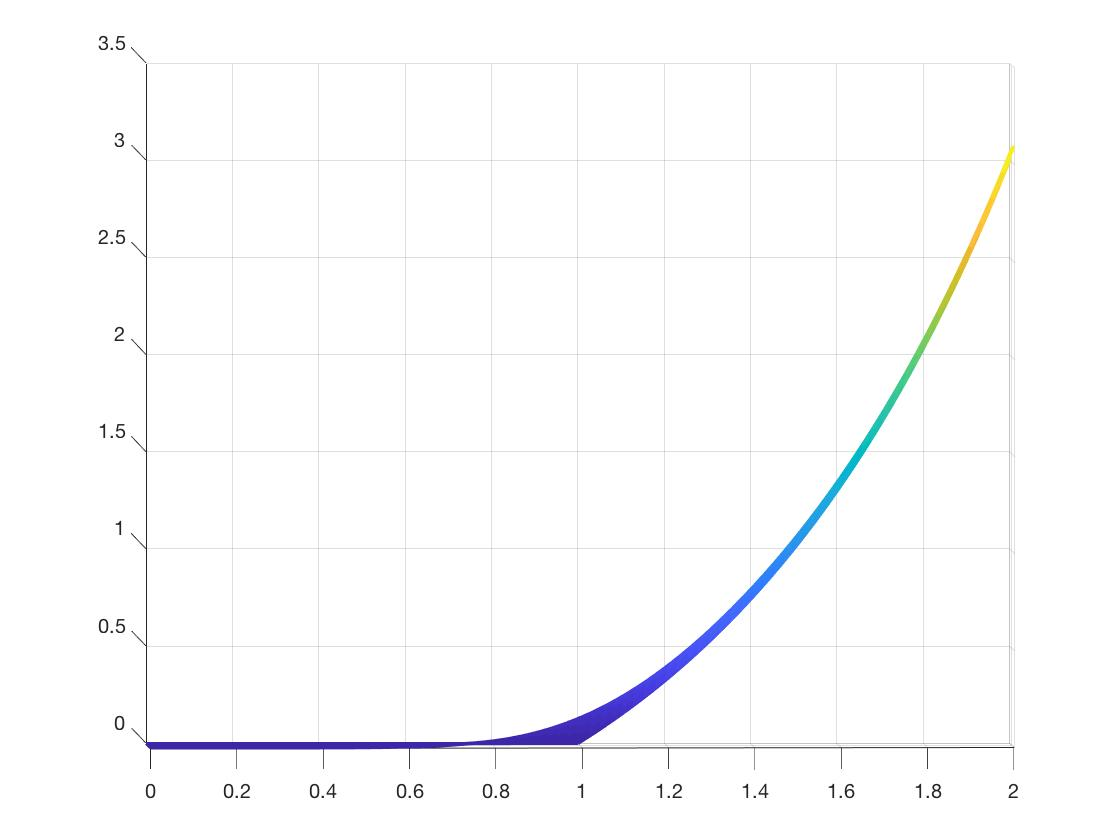
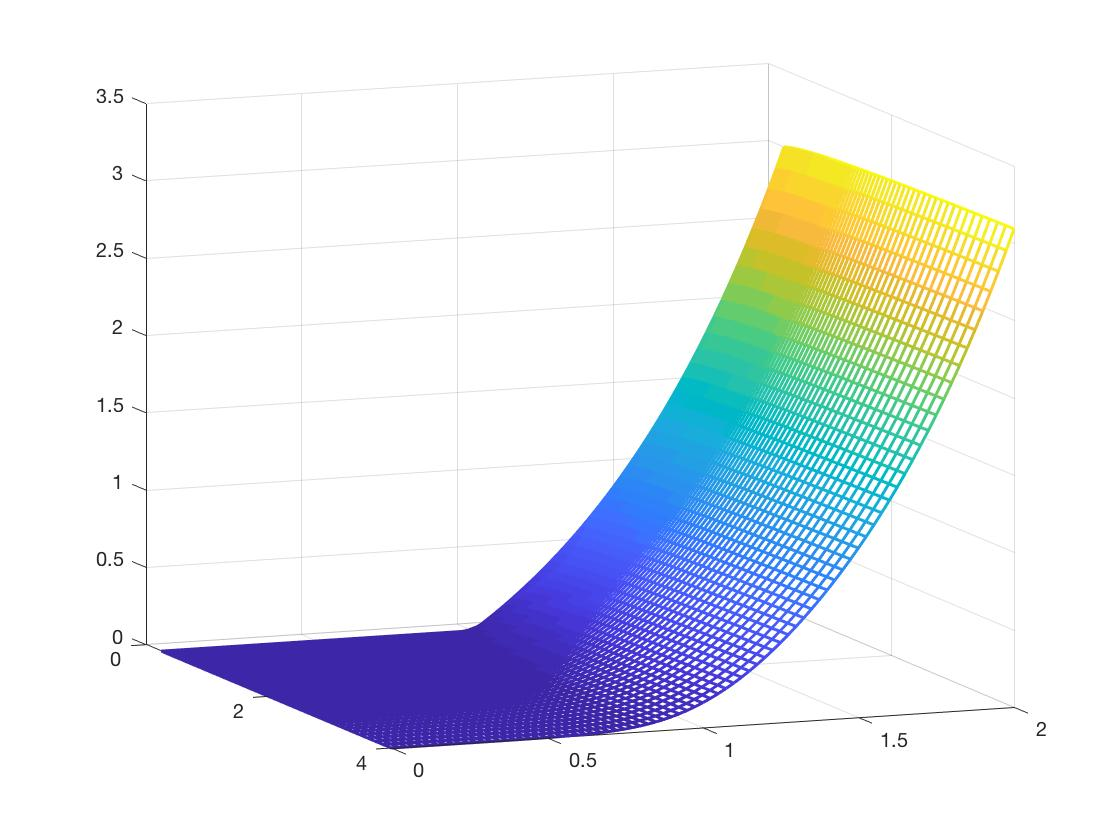
YA FUNCIONABA CN PERROOOOOOOS D:

diff --git a/mBS_CN.m b/mBS_CN.m
@@ -2,9 +2,8 @@ function [ W ] = mBS_CN ( Ix, It, M, N, bs )
 %UNTITLED Summary of this function goes here
 %   Detailed explanation goes here
 
-A = bs.r;
-B = -(bs.r - bs.sigma^2)/(2*log(2));
-C = -(bs.sigma^2/2)/(log(2)^2);
+A = -(bs.r - ((bs.sigma)^2 )/ 2 )/ log(2);
+B = - (((bs.sigma)^2) / 2)/ (log(2)^2);
 
 h = (Ix(2) - Ix(1))/M;
 k = (It(2) - It(1))/N;
@@ -34,7 +33,7 @@ D = zeros(M,1);
 BGrande = inv(BGrande);
 for i = 2:N+1
     f_n(1,1) = -theta*(bs.bcL(It(1)+k*(i-2)) - bs.bcL(It(1)+k*(i-1)));
-    D = AGrande*W(2:M+1,i);
+    D = AGrande*W(2:M+1,i-1);
     D(M,1) = bs.bcR(It(1)+(i-1)*k);
     W(2:M+1,i) = BGrande*(D+f_n);
     W(1,i) = bs.bcL(It(1)+(i-1)*k);

diff --git a/ej2.m b/ej2.m
@@ -1,0 +1,21 @@
+%EJERCICIO 2
+close all; clear all; clc;
+
+%Grafica de V(S,t)
+Ix = [-2 2];
+It = [0 2];
+M = 80;
+N = 20;
+
+bs.r = 0.05;
+bs.sigma = 0.2;
+bs.fc = @(x) max([2^x-1 0]);
+bs.bcL = @(t) 0;
+bs.bcR = @(t) 4*log(2);
+
+W = mBS_imp(Ix, It, M, N, bs);
+gridSpace = linspace(Ix(1), Ix(2), M + 1);
+gridTime  = linspace(It(1), It(2), N + 1);
+gridPrice = 2.^gridSpace;
+mesh(gridPrice, gridTime, W, 'LineWidth', 1.5);
+
